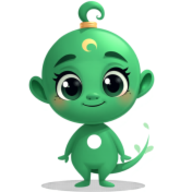
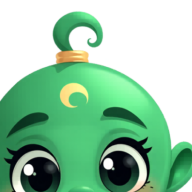
feat(chat): تاب المارد شخصي دايمًا + أيقونة أوضح (وش المارد)
- تاب المارد بقى محادثة شخصية معاه دايمًا شغّال — شِلت زرار استدعاء/صرف المارد.
- الاستدعاء بيفضل في الجروبات والمحادثات الخاصة (بكلمة «مارد») بس.
- أيقونات التطبيق بقت وش المارد (crop للوش) بدل الجسم الكامل الصغير — أوضح.

diff --git a/src/app/chat/marid/page.tsx b/src/app/chat/marid/page.tsx
@@ -44,7 +44,7 @@ export default function ChatPage() {
   const [recording, setRecording] = useState(false)
   const [showEmoji, setShowEmoji] = useState(false)
   const [showPlus, setShowPlus] = useState(false)
-  const [maridOn, setMaridOn] = useState(false)
+  const [maridOn] = useState(true) // تاب المارد = المارد دايمًا حاضر (شخصي)
   const [installEvt, setInstallEvt] = useState<BIPEvent | null>(null)
   const [iosHint, setIosHint] = useState(false)
   const [installDismissed, setInstallDismissed] = useState(false)
@@ -56,17 +56,8 @@ export default function ChatPage() {
   const chunksRef = useRef<Blob[]>([])
 
   const welcome = useCallback((nm: string) => {
-    setMessages([{ role: 'sys', text: `أهلاً${nm ? ' يا ' + nm : ''} 👋 دي محادثتك على مضمونة. تقدر تستدعي المارد (المساعد الذكي) أي وقت من الزر اللي فوق.`, time: nowTime() }])
+    setMessages([{ role: 'sys', text: `أهلاً${nm ? ' يا ' + nm : ''} 👋 أنا المارد، مساعدك الشخصي على مضمونة — اسألني في أي حاجة.`, time: nowTime() }])
   }, [])
-  function summonMarid() {
-    setMaridOn(true)
-    setShowPlus(false); setShowEmoji(false)
-    setMessages((m) => [...m, { role: 'sys', text: 'المارد انضم للمحادثة 🤖', time: nowTime() }, { role: 'bot', text: 'أنا المارد، تحت أمرك 👋 محتاج إيه؟', time: nowTime() }])
-  }
-  function dismissMarid() {
-    setMaridOn(false)
-    setMessages((m) => [...m, { role: 'sys', text: 'المارد خرج من المحادثة', time: nowTime() }])
-  }
 
   // تحميل تاريخ المحادثة السابقة (محمي بالتوكن) وتحويله لرسايل الشاشة
   async function loadHistory(token: string): Promise<Msg[]> {
@@ -264,16 +255,11 @@ export default function ChatPage() {
           <img src="https://res.cloudinary.com/duxfgqioc/image/upload/c_crop,x_375,y_120,w_410,h_410/c_fill,w_120,h_120/madmona/mascots/genie.png" alt="المارد" style={{ width: '100%', height: '100%', objectFit: 'cover' }} />
         </div>
         <div style={{ flex: 1 }}>
-          <div style={{ fontWeight: 700 }}>شات مضمونة</div>
-          <div style={{ fontSize: 12, opacity: .85 }}>{maridOn ? (sending ? 'المارد بيكتب…' : 'المارد حاضر') : 'محادثة'}</div>
+          <div style={{ fontWeight: 700 }}>المارد 🧞</div>
+          <div style={{ fontSize: 12, opacity: .85 }}>{sending ? 'بيكتب…' : 'مساعدك الشخصي · حاضر'}</div>
         </div>
         {notifState === 'default' && (
           <button onClick={enableNotifs} title="فعّل التنبيهات" aria-label="فعّل التنبيهات" style={{ background: 'rgba(255,255,255,.15)', color: '#fff', border: 'none', borderRadius: '50%', width: 34, height: 34, fontSize: 16, cursor: 'pointer', flexShrink: 0 }}>🔔</button>
-        )}
-        {maridOn ? (
-          <button onClick={dismissMarid} style={{ background: 'rgba(255,255,255,.2)', color: '#fff', border: 'none', borderRadius: 16, padding: '6px 10px', fontSize: 12, cursor: 'pointer', whiteSpace: 'nowrap' }}>اصرف المارد</button>
-        ) : (
-          <button onClick={summonMarid} style={{ background: '#25D366', color: '#053b32', border: 'none', borderRadius: 16, padding: '6px 12px', fontSize: 12, fontWeight: 700, cursor: 'pointer', whiteSpace: 'nowrap' }}>🤖 استدعِ المارد</button>
         )}
       </header>
 
